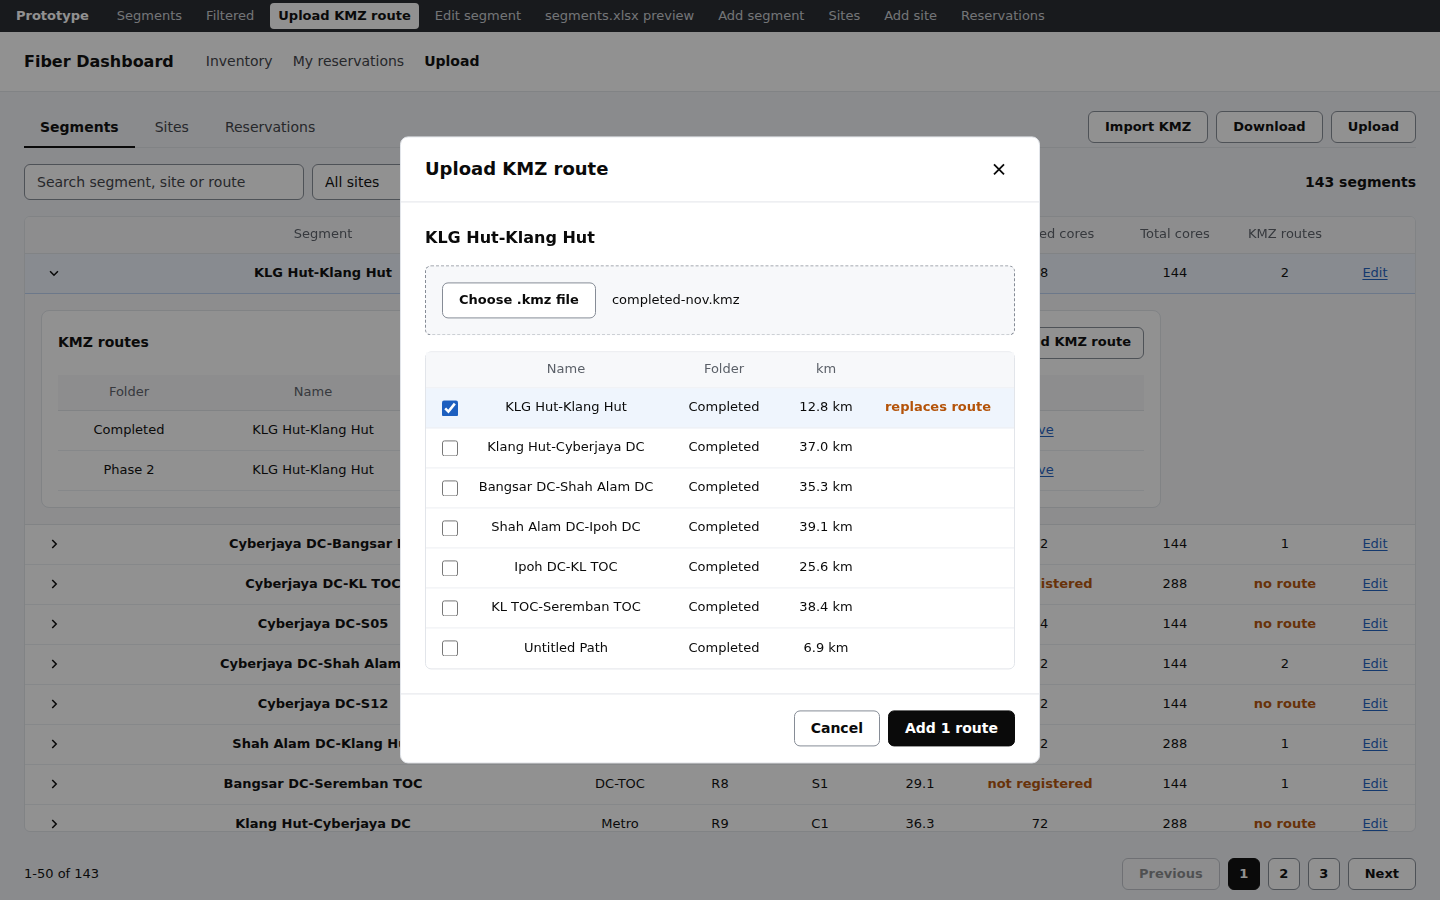
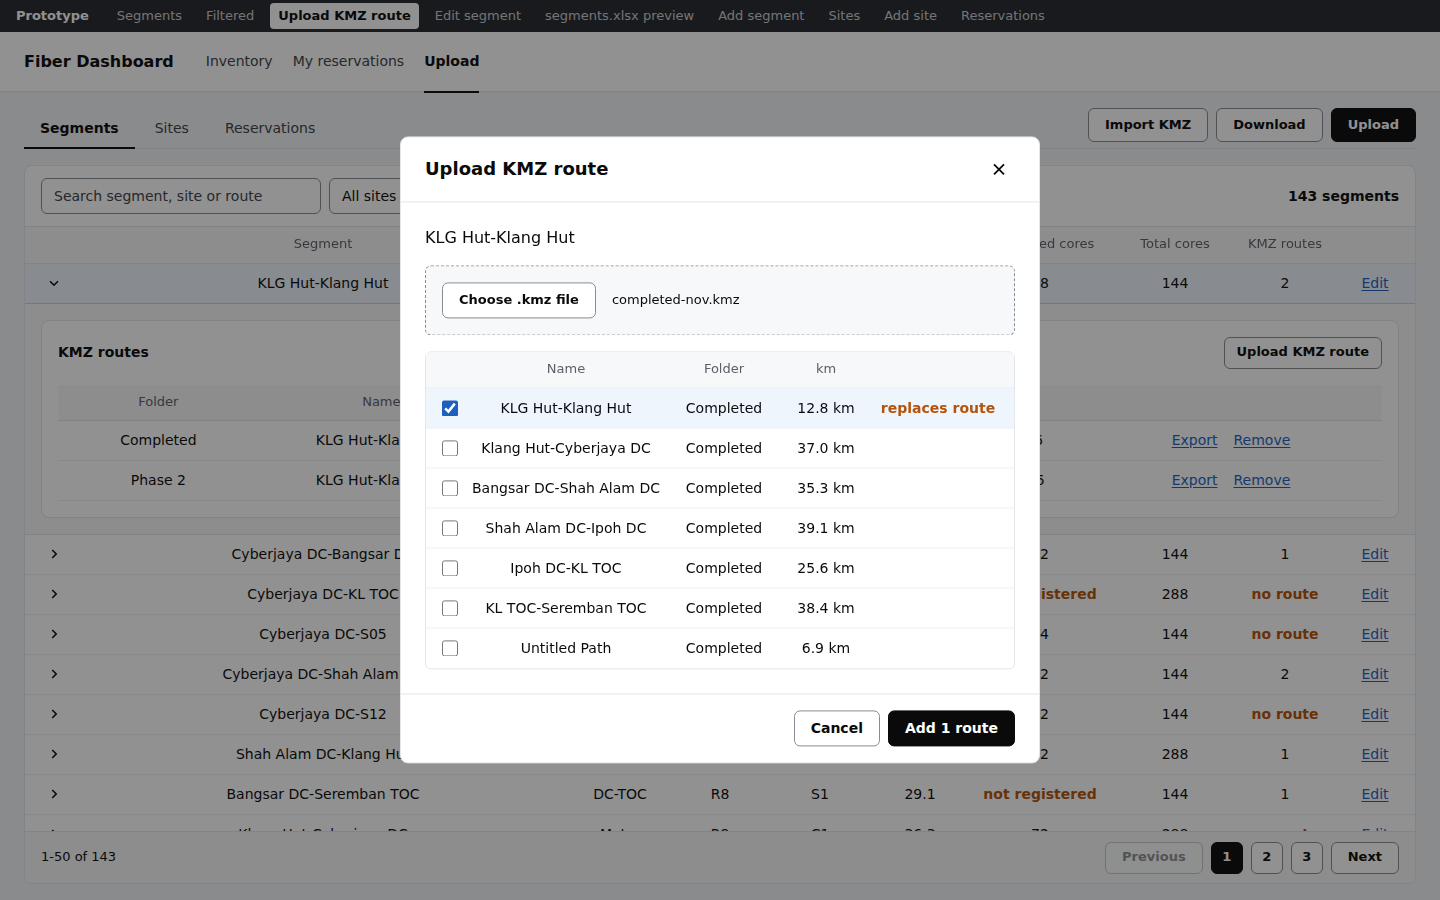
pictures: Upload rework final (variant A, 14px tables, KMZ card, Reservations layout), 26 Nov 2026
Claude-Session: https://claude.ai/code/session_01YGKZuAJrqywA4fjVaRMsdP

diff --git a/mockups/upload-rework/index.html b/mockups/upload-rework/index.html
@@ -29,10 +29,11 @@ ul { list-style: none; padding: 0; }
 .proto a:hover { background: #3a3e45; }
 .proto a.on { background: #fff; color: var(--ink); font-weight: 600; }
 
-.top { height: 60px; background: #fff; border-bottom: 1px solid var(--border); display: flex; align-items: center; gap: 32px; padding: 0 24px; }
+.top { height: 60px; padding-bottom: 0; background: #fff; border-bottom: 1px solid var(--border); display: flex; align-items: center; gap: 32px; padding: 0 24px; }
 .top b { font-size: 16px; }
 .top nav { display: flex; gap: 20px; color: var(--nav-ink); font-weight: 500; }
-.top nav .on { color: var(--ink); font-weight: 600; }
+.top nav span { padding: 21px 0 19px; border-bottom: 2px solid transparent; }
+.top nav .on { color: var(--ink); font-weight: 600; border-bottom-color: var(--ink); }
 
 /* Shared */
 .btn { display: inline-flex; align-items: center; justify-content: center; gap: 8px; height: 36px; padding: 0 16px; border: 1px solid var(--line); border-radius: 6px; background: #fff; font-weight: 600; cursor: pointer; white-space: nowrap; }
@@ -41,7 +42,7 @@ ul { list-style: none; padding: 0; }
 .btn-p { background: var(--ink); border-color: var(--ink); color: #fff; }
 .btn-p:hover { background: #2c2c2c; }
 .btn-sm { height: 32px; padding: 0 12px; font-size: 13px; }
-.link { color: var(--blue); text-decoration: underline; text-underline-offset: 2px; cursor: pointer; background: none; border: 0; padding: 0; font-size: 13px; }
+.link { color: var(--blue); text-decoration: underline; text-underline-offset: 2px; cursor: pointer; background: none; border: 0; padding: 0; font-size: 14px; }
 .field { width: 100%; height: 36px; padding: 0 12px; border: 1px solid var(--line); border-radius: 6px; background: #fff; }
 textarea.field { height: 72px; padding: 8px 12px; resize: vertical; }
 .field::placeholder { color: var(--nav-ink); opacity: 1; }
@@ -58,11 +59,11 @@ select.field { appearance: none; padding-right: 30px; cursor: pointer; backgroun
 .st-review { color: var(--amber); font-weight: 600; }
 .st-rej { color: var(--red); font-weight: 600; }
 .tbl { width: 100%; table-layout: fixed; border-collapse: collapse; }
-.tbl th, .tbl td { text-align: center; padding: 4px 12px; white-space: normal; overflow-wrap: anywhere; overflow: hidden; line-height: 1.3; font-size: 13px; }
+.tbl th, .tbl td { text-align: center; padding: 4px 12px; white-space: normal; overflow-wrap: anywhere; overflow: hidden; line-height: 1.3; font-size: 14px; }
 .tbl .l, .tbl .r { text-align: center; }
-.tbl thead th { font-size: 13px; font-weight: 500; color: var(--muted-ink); background: var(--subtle); height: 36px; border-bottom: 1px solid var(--border); position: sticky; top: 0; z-index: 1; }
+.tbl thead th { font-size: 13px !important; font-weight: 500; color: var(--muted-ink); background: var(--subtle); height: 36px; border-bottom: 1px solid var(--border); position: sticky; top: 0; z-index: 1; }
 .tbl td, .tbl tbody th { height: 40px; border-bottom: 1px solid var(--rule); }
-.tbl tbody th { font-weight: 600; }
+.tbl tbody th { font-weight: 500; }
 .tbox { border: 1px solid var(--border); border-radius: 6px; overflow: hidden; background: #fff; }
 .tbl .c { padding: 0 4px; }
 .chev { width: 24px; height: 24px; border: 0; background: none; border-radius: 4px; display: inline-grid; place-items: center; cursor: pointer; vertical-align: middle; }
@@ -71,16 +72,21 @@ select.field { appearance: none; padding-right: 30px; cursor: pointer; backgroun
 .chev[aria-expanded="true"] svg { transform: rotate(90deg); }
 
 /* Page */
-.page { height: calc(100vh - 92px); display: flex; flex-direction: column; padding: 16px 24px 0; gap: 16px; }
+.page { height: calc(100vh - 92px); display: flex; flex-direction: column; padding: 16px 24px 16px; gap: 16px; }
 .subbar { display: flex; align-items: flex-end; gap: 16px; border-bottom: 1px solid var(--border); }
 .subtabs { display: flex; gap: 4px; flex: 1; }
 .subtabs button { height: 40px; margin-bottom: -1px; border: 0; border-bottom: 2px solid transparent; background: none; padding: 0 16px; font-weight: 500; color: var(--nav-ink); cursor: pointer; }
 .subtabs button:hover { color: var(--ink); }
 .subtabs button[aria-selected="true"] { border-color: var(--ink); color: var(--ink); font-weight: 600; }
-.subbar .bulk { display: flex; gap: 8px; padding-bottom: 4px; }
-.subbar .btn-sm { padding: 0 16px; }
+.subbar .bulk { display: flex; gap: 8px; padding-bottom: 6px; }
+.subbar .btn-sm { padding: 0 16px; height: 34px; }
 .panel { flex: 1; min-height: 0; display: flex; flex-direction: column; gap: 16px; }
-.toolbar { display: flex; align-items: center; gap: 16px; }
+.panel:has(.tscroll) { gap: 0; background: #fff; border: 1px solid var(--border); border-radius: 8px; overflow: hidden; }
+.panel:has(.tscroll) .tscroll { border: 0; border-radius: 0; border-top: 1px solid var(--border); }
+.panel:has(.tscroll) .pager { padding: 0 16px; border-top: 1px solid var(--border); background: var(--subtle); }
+#seg-pager, #site-pager { flex: none; }
+.toolbar { display: flex; align-items: center; gap: 24px; padding: 12px 16px; }
+.toolbar .sep { width: 1px; height: 24px; background: var(--border); }
 .toolbar .btn-sm, .toolbar .chip { padding: 0 16px; height: 36px; }
 .toolbar .field { width: auto; }
 .toolbar .count { margin-left: auto; font-weight: 600; }
@@ -97,17 +103,18 @@ select.field { appearance: none; padding-right: 30px; cursor: pointer; backgroun
 
 /* Expanded segment */
 .tbl tr.xrow > td { height: auto; padding: 16px; white-space: normal; background: var(--subtle); border-bottom: 1px solid var(--border); overflow: visible; }
-.kcard { background: #fff; border: 1px solid var(--border); border-radius: 8px; padding: 16px; display: grid; gap: 16px; max-width: 1120px; }
+.pager .info { font-size: 13px; }
+.kcard { box-sizing: border-box; background: #fff; border: 1px solid var(--border); border-radius: 8px; padding: 16px; display: grid; gap: 16px; width: 100%; }
 .khead { display: flex; align-items: center; justify-content: space-between; gap: 16px; }
 .khead b { font-weight: 600; font-size: 14px; color: var(--ink); }
 .lines { display: grid; }
-.lrow { display: grid; grid-template-columns: 110px minmax(0, 1fr) 80px minmax(0, 190px) 120px 260px; align-items: center; gap: 12px; text-align: center; min-height: 40px; padding: 0 16px; font-size: 13px; border-bottom: 1px solid var(--rule); }
+.lrow { display: grid; grid-template-columns: 1fr 1.5fr .7fr 1.5fr 1fr 1.6fr; align-items: center; gap: 12px; text-align: center; min-height: 40px; padding: 0 16px; font-size: 14px; border-bottom: 1px solid var(--rule); }
 .lrow > span { overflow-wrap: anywhere; line-height: 1.3; padding: 4px 0; }
-.lrow.head { min-height: 36px; color: var(--muted-ink); font-weight: 500; background: var(--subtle); border-bottom-color: var(--border); }
+.lrow.head { font-size: 13px; min-height: 36px; color: var(--muted-ink); font-weight: 500; background: var(--subtle); border-bottom-color: var(--border); }
 .lrow.item.removing { background: var(--amber-bg); }
 .lrow.item.removed .t { text-decoration: line-through; }
-.lrow .acts { display: flex; gap: 16px; justify-content: center; align-items: center; }
-.kempty { padding: 0 16px; text-align: center; }
+.lrow .acts { display: flex; flex-wrap: wrap; gap: 4px 16px; justify-content: center; align-items: center; }
+.kempty { padding: 8px 16px; text-align: center; }
 
 /* Boxes */
 .dim { position: fixed; inset: 0; background: rgb(10 10 10 / .45); z-index: 10; }
@@ -124,9 +131,9 @@ select.field { appearance: none; padding-right: 30px; cursor: pointer; backgroun
 .form label { display: grid; gap: 8px; font-size: 13px; font-weight: 500; }
 .form .wide { grid-column: 1 / -1; }
 .drop { border: 1px dashed var(--line); background: var(--subtle); border-radius: 6px; padding: 16px; display: flex; align-items: center; gap: 16px; font-size: 13px; }
-.segname { font-size: 16px; font-weight: 600; }
+.segname { font-size: 16px; font-weight: 500; }
 .flist { border: 1px solid var(--border); border-radius: 6px; }
-.frow { display: grid; grid-template-columns: 16px minmax(0, 1fr) 100px 80px 120px; align-items: center; gap: 12px; min-height: 40px; text-align: center; padding: 0 16px; font-size: 13px; border-bottom: 1px solid var(--rule); cursor: pointer; }
+.frow { display: grid; grid-template-columns: 16px minmax(0, 1fr) 100px 80px 120px; align-items: center; gap: 12px; min-height: 40px; text-align: center; padding: 0 16px; font-size: 14px; border-bottom: 1px solid var(--rule); cursor: pointer; }
 .frow:last-child { border-bottom: 0; }
 .frow.head { min-height: 36px; font-size: 13px; color: var(--muted-ink); background: var(--subtle); cursor: default; font-weight: 500; }
 .frow > span { overflow-wrap: anywhere; line-height: 1.3; padding: 4px 0; }
@@ -301,15 +308,14 @@ function render() {
   if (state.tab === "segments") {
     $("#bulk").innerHTML = `<button class="btn btn-sm" type="button" data-open="import-kmz">Import KMZ</button>
       <button class="btn btn-sm" type="button" data-act="download-seg">Download</button>
-      <button class="btn btn-sm" type="button" data-open="xlsx-seg">Upload</button>`;
+      <button class="btn btn-sm btn-p" type="button" data-open="xlsx-seg">Upload</button>`;
     renderSegments();
   } else if (state.tab === "sites") {
     $("#bulk").innerHTML = `<button class="btn btn-sm" type="button" data-open="add-site">Add site</button>
       <button class="btn btn-sm" type="button" data-act="download-sites">Download</button>
-      <button class="btn btn-sm" type="button" data-open="xlsx-sites">Upload</button>`;
+      <button class="btn btn-sm btn-p" type="button" data-open="xlsx-sites">Upload</button>`;
     renderSites();
   } else {
-    $("#bulk").innerHTML = "";
     renderReservations();
   }
   renderModal();
@@ -367,7 +373,7 @@ function renderSegments() {
       <select class="field" style="width:200px" id="seg-site" aria-label="Site">${siteOptions(filter.site, "All sites")}</select>
       ${filter.site ? '<button class="btn btn-sm" type="button" data-open="add-segment">Add segment</button>' : ""}
       <select class="field" style="width:140px" id="seg-route" aria-label="Route"><option value="">All routes</option>${routes.map((route) => `<option ${route === filter.route ? "selected" : ""}>${route}</option>`).join("")}</select></div>
-      <div class="grp"><button class="chip" type="button" id="chip-noline" aria-pressed="${filter.noLine}">No route only</button>
+      <span class="sep"></span><div class="grp"><button class="chip" type="button" id="chip-noline" aria-pressed="${filter.noLine}">No route only</button>
       <button class="chip" type="button" id="chip-notver" aria-pressed="${filter.notRegistered}">Not registered only</button></div>
       <span class="count" id="seg-count"></span>
     </div>
@@ -472,30 +478,35 @@ function renderSiteRows() {
 
 /* ---------- Reservations ---------- */
 const RES = { file: null, applied: false, confirming: false };
+function resBulk() {
+  if (state.reservationClosed) {
+    return "";
+  }
+  return `<button class="btn btn-sm" type="button" id="res-choose">Choose .xlsx file</button>
+    <button class="btn btn-sm" type="button" id="res-switch">Close reservation import</button>
+    <button class="btn btn-sm btn-p" type="button" id="res-apply" ${RES.file && !RES.applied ? "" : "disabled"}>${RES.applied ? "Imported 3" : "Import 3"}</button>`;
+}
 function renderReservations() {
-  const preview = RES.file ? `
-    <div class="tbox"><table class="tbl" aria-label="Reservation rows">
-      <colgroup><col style="width:80px"><col style="width:280px"><col><col style="width:90px"><col style="width:160px"></colgroup>
-      <thead><tr><th class="r">Row</th><th>Segment</th><th>Customer</th><th class="r">Cores</th><th>Status</th></tr></thead>
-      <tbody>
-        <tr><td class="r">2</td><td>KLG Hut-Klang Hut</td><td>Customer A</td><td class="r">4</td><td class="st-new">Ready</td></tr>
-        <tr><td class="r">3</td><td>Cyberjaya DC-Bangsar DC</td><td>Customer B</td><td class="r">2</td><td class="st-new">Ready</td></tr>
-        <tr><td class="r">4</td><td>S14-S15</td><td>Customer C</td><td class="r">8</td><td class="st-new">Ready</td></tr>
-        <tr><td class="r">5</td><td>S99-S15</td><td>Customer D</td><td class="r">2</td><td class="st-review">Needs review</td></tr>
-        <tr><td class="r">6</td><td>S20-S21</td><td>-</td><td class="r">2</td><td class="st-rej">Rejected</td></tr>
-      </tbody></table></div>
-    <div class="row" style="display:flex;gap:16px;align-items:center"><span style="flex:1;display:flex;gap:16px"><span>3 Ready</span><span>1 Needs review</span><span>1 Rejected</span></span>
-      <button class="btn btn-p" type="button" id="res-apply" ${RES.applied || state.reservationClosed ? "disabled" : ""}>${RES.applied ? "Imported 3" : "Import 3"}</button></div>` : "";
-  const confirm = RES.confirming ? `<div class="confirmbar"><b>Close reservation import?</b>
+  $("#bulk").innerHTML = resBulk();
+  const rows = RES.file && !state.reservationClosed ? `
+        <tr><td>2</td><td>KLG Hut-Klang Hut</td><td>Customer A</td><td>4</td><td class="st-new">Ready</td></tr>
+        <tr><td>3</td><td>Cyberjaya DC-Bangsar DC</td><td>Customer B</td><td>2</td><td class="st-new">Ready</td></tr>
+        <tr><td>4</td><td>S14-S15</td><td>Customer C</td><td>8</td><td class="st-new">Ready</td></tr>
+        <tr><td>5</td><td>S99-S15</td><td>Customer D</td><td>2</td><td class="st-review">Needs review</td></tr>
+        <tr><td>6</td><td>S20-S21</td><td>-</td><td>2</td><td class="st-rej">Rejected</td></tr>` : `<tr><td colspan="5" class="empty">${state.reservationClosed ? "Import closed" : "No file"}</td></tr>`;
+  const confirm = RES.confirming ? `<div class="confirmbar" style="margin:16px;"><b>Close reservation import?</b>
       <label style="display:grid;gap:8px;font-size:13px;font-weight:500">Remarks<input class="field" id="res-remarks"></label>
-      <div class="row" style="gap:8px"><button class="btn btn-p btn-sm" type="button" id="res-close-yes">Close import</button><button class="btn btn-sm" type="button" id="res-close-no">Cancel</button></div></div>` : "";
-  $("#panel").innerHTML = `<div class="card">
-    <h2>Reservation workbook</h2>
-    ${state.reservationClosed ? '<p class="warn">Import closed</p>' : `<div class="drop"><button class="btn btn-p" type="button" id="res-choose">Choose .xlsx file</button><span>${RES.file ?? "No file"}</span></div>`}
-    ${state.reservationClosed ? "" : preview}
-    <div class="swrow"><span class="lbl" id="sw-lbl">Close reservation import</span><span>${state.reservationClosed ? "closed" : "open"}</span>
-      <button class="switch" type="button" role="switch" aria-labelledby="sw-lbl" aria-checked="${state.reservationClosed}" id="res-switch" ${state.reservationClosed ? "disabled" : ""}></button></div>
-    ${confirm}</div>`;
+      <div class="row"><button class="btn btn-p btn-sm" type="button" id="res-close-yes">Close import</button><button class="btn btn-sm" type="button" id="res-close-no">Cancel</button></div></div>` : "";
+  const counts = RES.file && !state.reservationClosed ? '<span class="st-new">3 Ready</span><span class="st-review">1 Needs review</span><span class="st-rej">1 Rejected</span>' : "";
+  $("#panel").innerHTML = `
+    <div class="toolbar"><span style="font-weight:600">${state.reservationClosed ? "Import closed" : RES.file ?? "No file"}</span><span class="sep"></span><div class="grp" style="gap:24px">${counts}</div>
+      <span class="count">${RES.file && !state.reservationClosed ? "5 rows" : ""}</span></div>
+    ${confirm}
+    <div class="tscroll"><table class="tbl" aria-label="Reservation rows">
+      <colgroup><col style="width:100px"><col><col><col style="width:140px"><col style="width:200px"></colgroup>
+      <thead><tr><th>Row</th><th>Segment</th><th>Customer</th><th>Cores</th><th>Status</th></tr></thead>
+      <tbody>${rows}</tbody></table></div>
+    <div class="pager"><span class="info">${RES.file && !state.reservationClosed ? "1-5 of 5" : "0-0 of 0"}</span></div>`;
 }
 
 /* ---------- Boxes ---------- */
@@ -571,7 +582,7 @@ function siteBox(modal) {
 }
 function importKmzBox() {
   const body = `<p><a class="link" href="../kmz-import-v3/index.html" target="_blank" rel="noopener">Open KMZ import</a></p>`;
-  return boxShell(560, "Import KMZ", body, '<span class="count"></span><button class="btn" type="button" data-close>Close</button>');
+  return boxShell(560, "Import KMZ", body, '<span class="count"></span><button class="btn btn-p" type="button" data-close>Close</button>');
 }
 
 const PREVIEWS = {};
